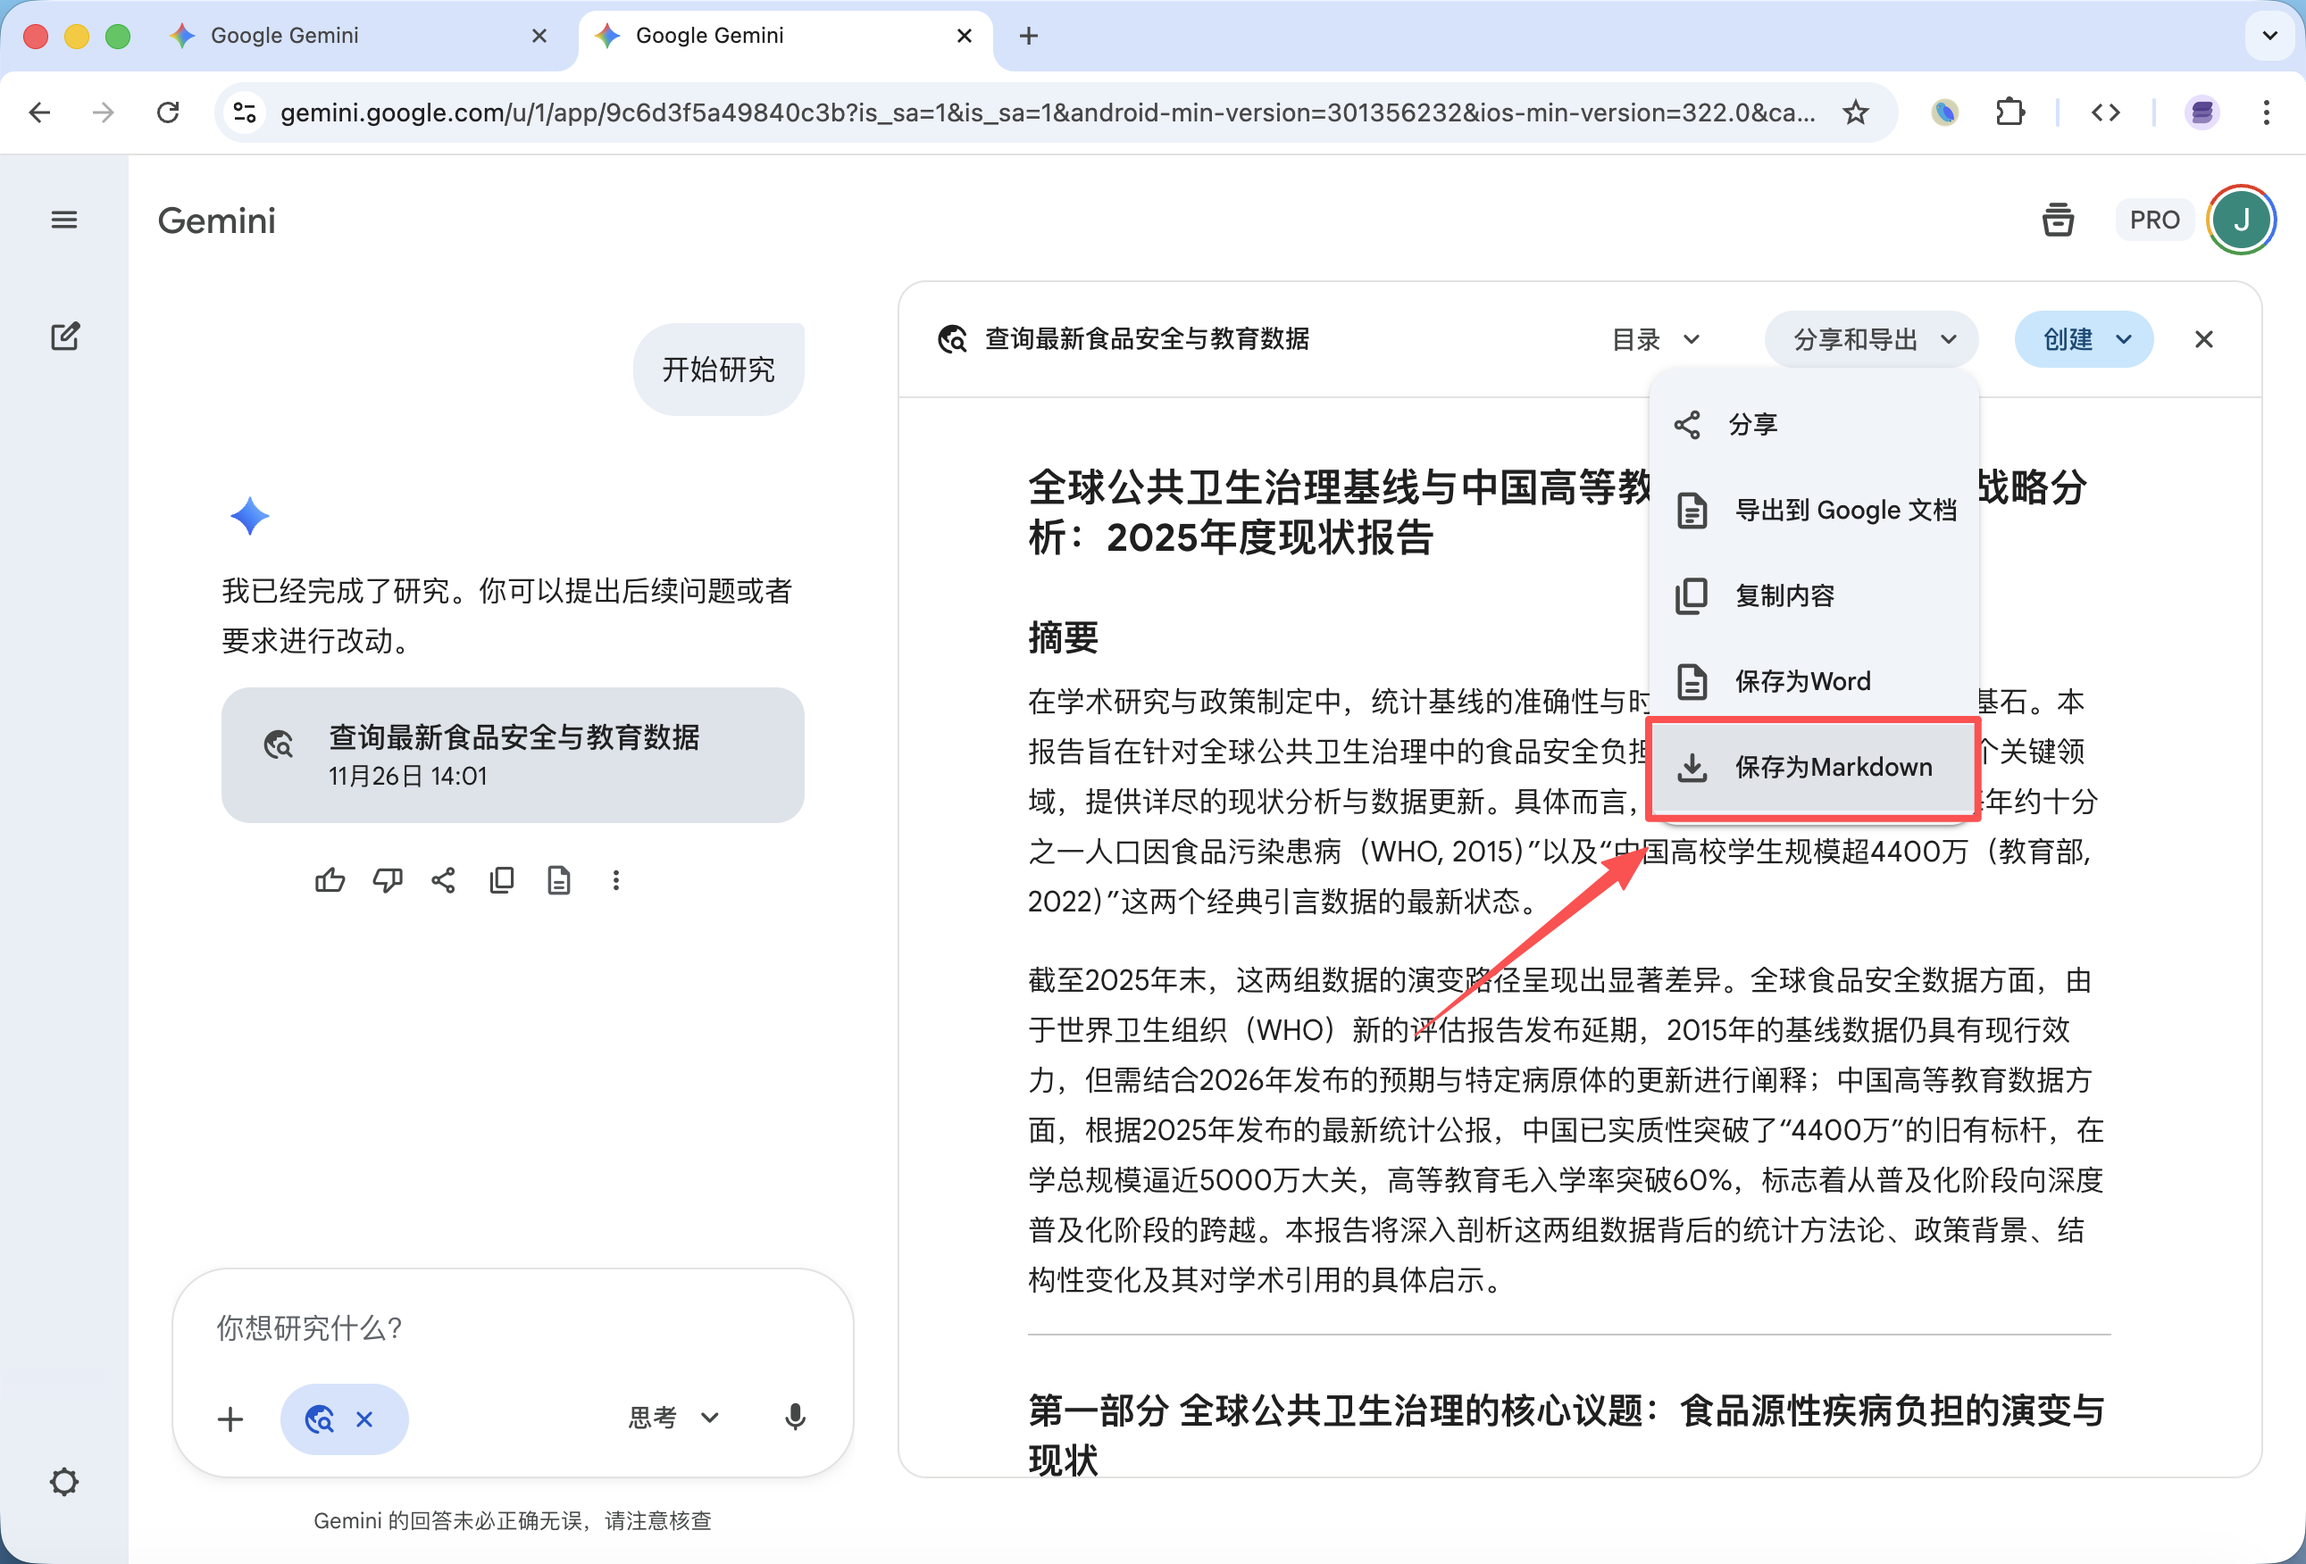
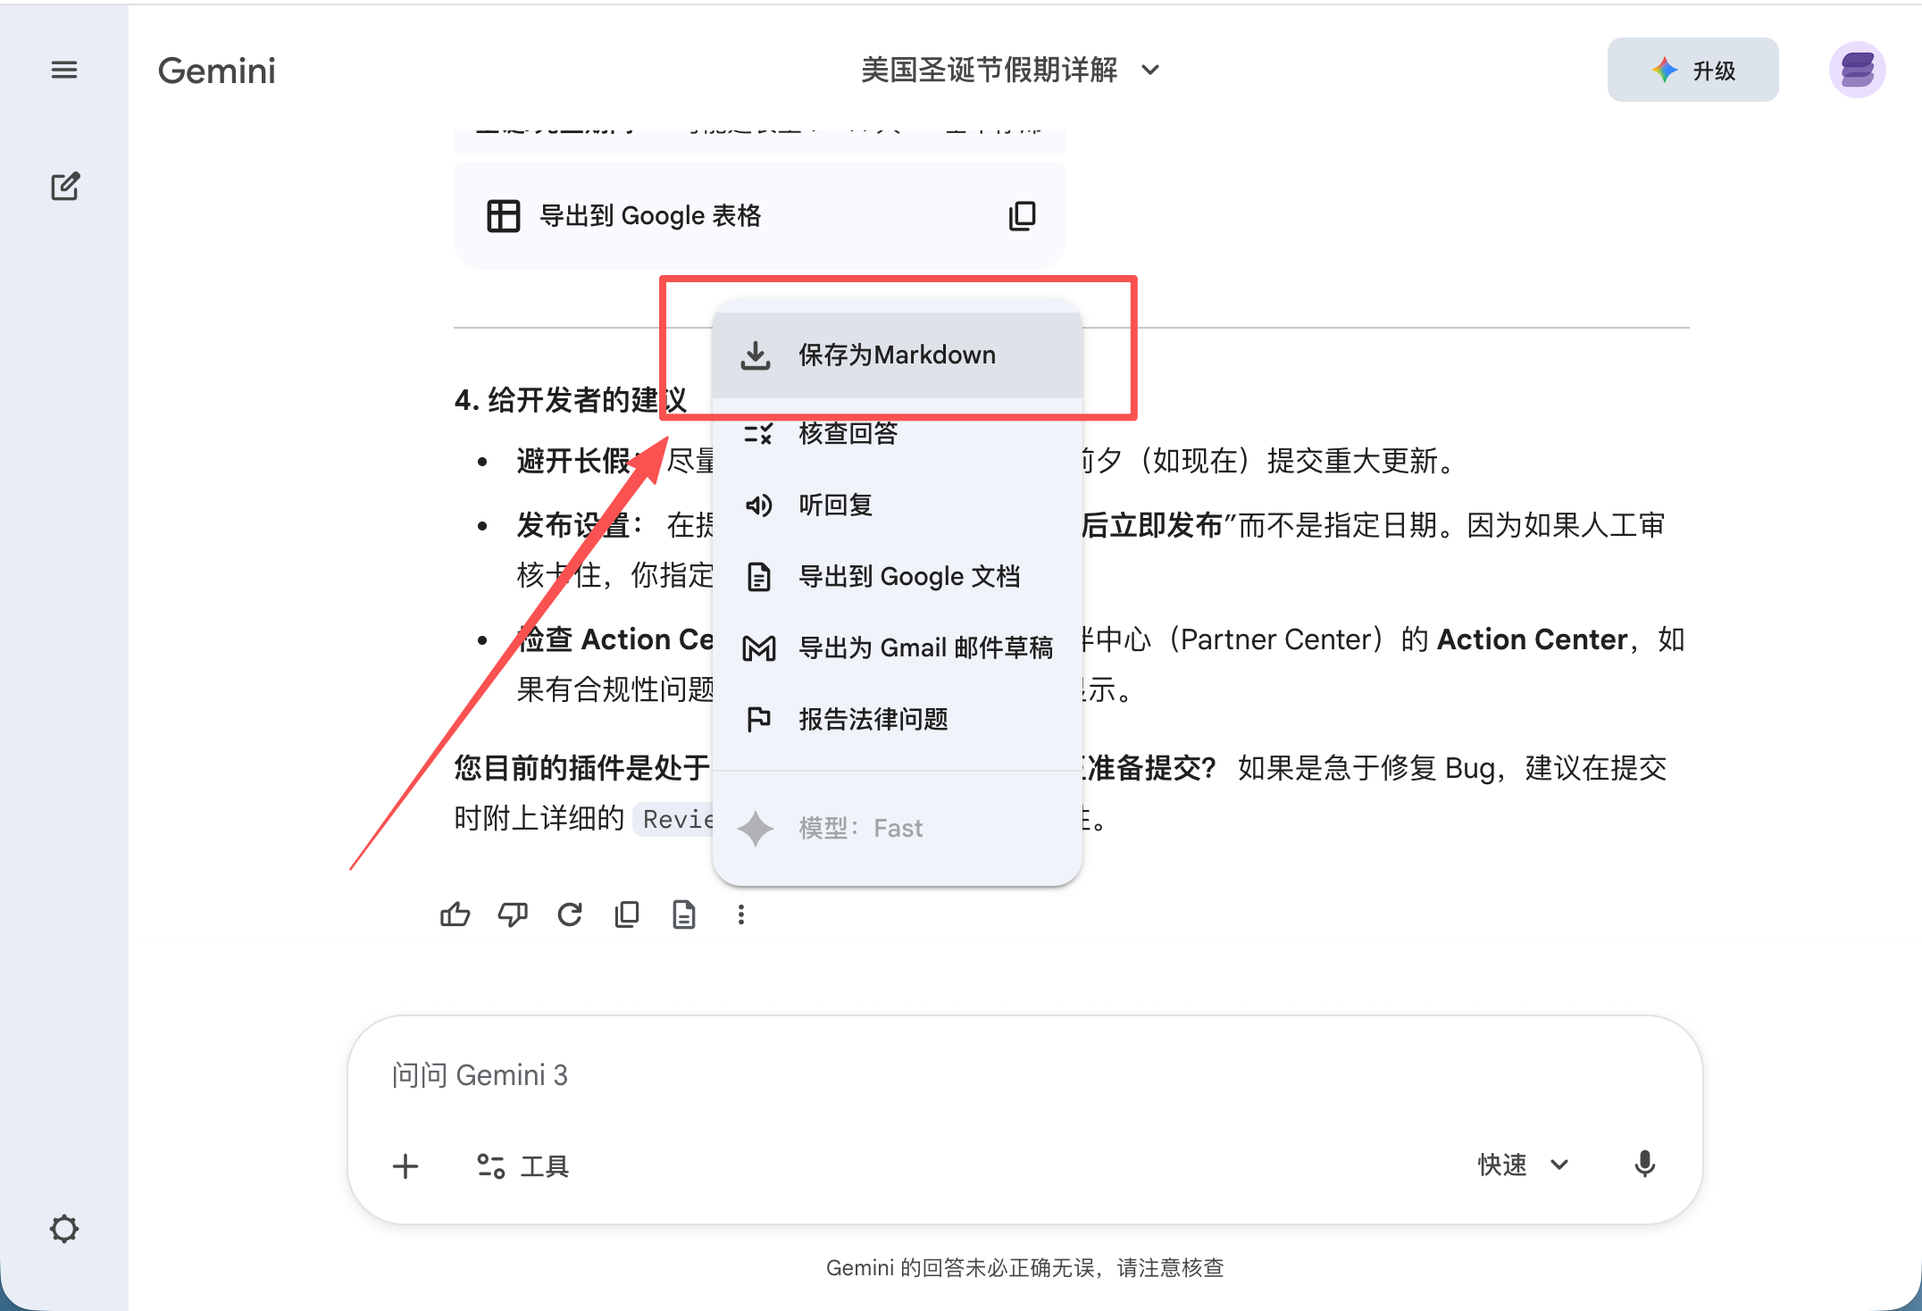
feat: Add support for exporting Gemini conversations to Markdown and enhance related documentation with new images

diff --git a/app/usage/_meta.js b/app/usage/_meta.js
@@ -3,12 +3,13 @@ export default {
   'deepseek-to-word': 'DeepSeek导出Word',
   'chatgpt-to-word': 'ChatGPT导出Word',
   'gemini-to-word': 'Gemini导出Word',
-  'gemini-canvas-to-word': 'Gemini Canvas导出Word',
-  'gemini-deep-research-to-md': 'Gemini Deep Research导出Markdown',
   'kimi-to-word': 'Kimi导出Word',
   'doubao-to-word': '豆包导出Word',
-  'doubao-side-to-word': '豆包“帮我写作”导出Word',
   'qwen-to-word': '千问导出Word',
+  'gemini-to-md': 'Gemini导出Markdown',
+  'gemini-canvas-to-word': 'Gemini Canvas导出Word',
+  'gemini-deep-research-to-md': 'Gemini Deep Research导出Markdown',
+  'doubao-side-to-word': '豆包“帮我写作”导出Word',
   'copy-formula': '复制AI对话中公式',
   'select-word-template': '选择Word模版',
   'remove-dividers': '去除Word的分割线',
